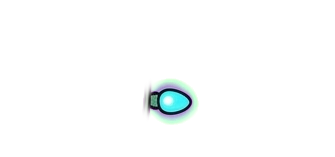
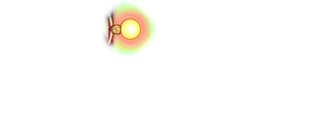
feat: Noël, cadre A, guirlandes qui alternent une ampoule sur deux, franchement, avec lueur

Changed region(s): [[0.3125, 0.0, 0.5, 0.4242], [0.4062, 0.4848, 0.5938, 0.7879]]

diff --git a/Tools/skin-pack/pack_noel_frame.py b/Tools/skin-pack/pack_noel_frame.py
@@ -33,20 +33,44 @@ for x0, y0_, x1, y1_ in ((0, 0, tw, th), (CW - tw, 0, CW, th), (0, CH - bh, tw, 
 core = ndimage.binary_opening(core, iterations=1)
 near = ndimage.binary_dilation(core, iterations=14)
 lab, count = ndimage.label(near)
-objs = sorted(ndimage.center_of_mass(near, lab, range(1, count + 1)), key=lambda c: c[1])
-order = {i + 1: k for k, i in enumerate(sorted(range(count), key=lambda i: objs[i][1]))}
+# every other bulb along each string: the top and the bottom strings run along x, the sides along y
 group = np.zeros_like(alpha, dtype=int) - 1
-for i in range(1, count + 1):
-    group[lab == i] = order[i] % 3
-soft_all = np.clip(ndimage.gaussian_filter(near.astype(float), 4) * 1.5, 0, 1)
-dim_fg = fg * (1 - 0.62 * soft_all)[..., None]
-dim_alpha = alpha * (1 - 0.35 * soft_all)
-print(count, 'bulbs')
+centres = ndimage.center_of_mass(near, lab, range(1, count + 1))
+def region(c):
+    y, x = c
+    if y < CH * 0.33 and CW * 0.18 < x < CW * 0.82:
+        return 'top'
+    if y > CH * 0.6 and CW * 0.18 < x < CW * 0.82:
+        return 'bottom'
+    return 'left' if x < CW / 2 else 'right'
+by_region = {}
+for i, c in enumerate(centres, 1):
+    by_region.setdefault(region(c), []).append((c[0] if region(c) in ('left', 'right') else c[1], i))
+for rname, items in by_region.items():
+    for k, (_, i) in enumerate(sorted(items)):
+        group[lab == i] = k % 2
+NG = 2
+soft_all = np.clip(ndimage.gaussian_filter(near.astype(float), 3) * 1.6, 0, 1)
+# switched off: dark glass, little colour; the glow of the lit ones is added on top
+grey = fg.mean(-1, keepdims=True)
+dim_fg = (fg * 0.7 + grey * 0.3) * (1 - 0.8 * soft_all)[..., None]
+dim_alpha = alpha * (1 - 0.5 * soft_all)
+print(count, 'bulbs', {k: len(v_) for k, v_ in by_region.items()})
 full = Image.fromarray(np.dstack([dim_fg, dim_alpha * 255]).astype('uint8'), 'RGBA')
 layers = []
-for gidx in range(3):
-    m = np.clip(ndimage.gaussian_filter((group == gidx).astype(float), 4) * 1.5, 0, 1)
-    layers.append(Image.fromarray(np.dstack([fg, alpha * m * 255]).astype('uint8'), 'RGBA'))
+for gidx in range(NG):
+    cg = (group == gidx) & core
+    m = np.clip(ndimage.gaussian_filter((group == gidx).astype(float), 3) * 1.6, 0, 1)
+    # the glow around the lit bulbs, in their own colours
+    wsum = ndimage.gaussian_filter(cg.astype(float), 7) + 1e-6
+    gcol = np.stack([ndimage.gaussian_filter(fg[..., c] * cg, 7) / wsum for c in range(3)], -1)
+    gcol = np.clip(gcol * 1.15 + 25, 0, 255)
+    ga = np.clip(ndimage.gaussian_filter(cg.astype(float), 7) * 4.5, 0, 0.85)
+    la = alpha * m
+    lfg = np.clip(fg * 1.12, 0, 255)
+    out_a = la + ga * (1 - la)
+    out_rgb = (lfg * la[..., None] + gcol * (ga * (1 - la))[..., None]) / np.maximum(out_a, 1e-4)[..., None]
+    layers.append(Image.fromarray(np.dstack([out_rgb, out_a * 255]).astype('uint8'), 'RGBA'))
 
 cuts = {'tl': (0, 0, tw, th), 't': (tw, 0, CW - tw, th), 'tr': (CW - tw, 0, CW, th),
         'bl': (0, CH - bh, tw, CH), 'b': (tw, CH - bh, CW - tw, CH), 'br': (CW - tw, CH - bh, CW, CH)}
@@ -65,7 +89,7 @@ ppp = v['ppp']
 ov = {'left': cx0, 'top': cy0, 'right': CW - cx1, 'bottom': CH - cy1}
 sk = json.load(open(f'{OUT}/skin.json', encoding='utf-8'))
 sk['frame'] = {'ppp': ppp, 'overhang': {k: round(x * ppp, 2) for k, x in ov.items()}, 'corner': {'w': round(tw * ppp, 2), 'h': round(th * ppp, 2)}, 'pieces': pieces, 'band': 1.0, 'tileSides': True}
-sk['frame']['lights'] = [{'pieces': lp, 'period': per} for lp, per in zip(light_pieces, (0.9, 1.3, 1.1))]
+sk['frame']['lights'] = [{'pieces': lp, 'period': per} for lp, per in zip(light_pieces, (1.2, 1.2))]
 sk.pop('decos', None)
 json.dump(sk, open(f'{OUT}/skin.json', 'w', encoding='utf-8'), indent=2)
 print(which, sk['frame']['overhang'], sk['frame']['corner'])

diff --git a/Client/Ui/Skin/SkinFrame.cs b/Client/Ui/Skin/SkinFrame.cs
@@ -28,10 +28,12 @@ public static class SkinFrame
         }
 
         AddGlows(skin, frame, grid);
-        // the little lights: each layer is the frame again with a group of bulbs lit, fading in and out at its own pace
-        var random = new Random(11);
-        foreach (SkinLightLayer layer in frame.Lights)
+        // the little lights, like a real string of Christmas lights (Stacy, 2026-11-02): each layer is the frame again with a group of bulbs lit; the groups are interleaved along each string
+        // (every other bulb) and light up in turn, sharply, as the bulbs of a real string do - two groups: one on while the other is off
+        int count = frame.Lights.Count;
+        for (int index = 0; index < count; index++)
         {
+            SkinLightLayer layer = frame.Lights[index];
             if (Assemble(skin, frame, layer.Pieces, false) is not Grid lit)
             {
                 continue;
@@ -40,11 +42,17 @@ public static class SkinFrame
             Grid.SetRowSpan(lit, 3);
             Grid.SetColumnSpan(lit, 3);
             grid.Children.Add(lit);
-            lit.BeginAnimation(UIElement.OpacityProperty, new DoubleAnimation(0.05, 1, TimeSpan.FromSeconds(layer.Period))
+            double cycle = layer.Period, slot = cycle / count;
+            var blink = new DoubleAnimationUsingKeyFrames { Duration = TimeSpan.FromSeconds(cycle), RepeatBehavior = RepeatBehavior.Forever };
+            blink.KeyFrames.Add(new DiscreteDoubleKeyFrame(index == 0 ? 1 : 0, KeyTime.FromTimeSpan(TimeSpan.Zero)));
+            if (index > 0)
             {
-                AutoReverse = true, RepeatBehavior = RepeatBehavior.Forever, BeginTime = TimeSpan.FromSeconds(random.NextDouble() * layer.Period),
-                EasingFunction = new SineEase { EasingMode = EasingMode.EaseInOut },
-            });
+                blink.KeyFrames.Add(new DiscreteDoubleKeyFrame(1, KeyTime.FromTimeSpan(TimeSpan.FromSeconds(slot * index))));
+            }
+
+            blink.KeyFrames.Add(new DiscreteDoubleKeyFrame(0, KeyTime.FromTimeSpan(TimeSpan.FromSeconds(slot * (index + 1) - 0.0001))));
+            blink.KeyFrames.Add(new DiscreteDoubleKeyFrame(index == 0 ? 1 : 0, KeyTime.FromTimeSpan(TimeSpan.FromSeconds(cycle))));
+            lit.BeginAnimation(UIElement.OpacityProperty, blink);
         }
 
         return grid;
